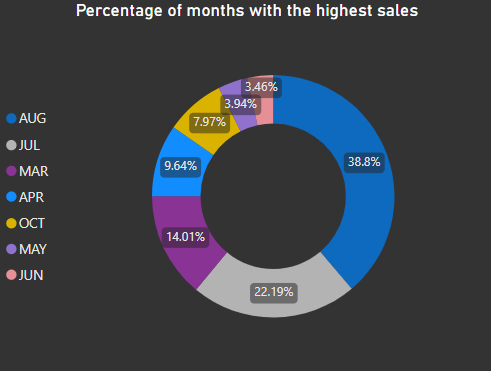
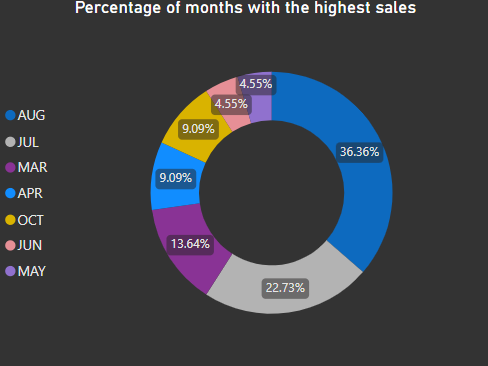
finish commit

diff --git a/README.md b/README.md
@@ -16,19 +16,19 @@ Data sourced from Kaggle (dataset: Vehicle_Sales_Count by Year 2002-2023).
 
 These are the tools were used in this analysis:
 
-- **SQL**
-- **Power BI**
-- **PostgreSQL**
-- **Visual Studio Code**
-- **Git & GitHub**
+- **SQL:** It is the central tool for analysis, where DML (Data Manipulation Language) queries were used to query the database. DDL (Data Definition Language) was also generated to create the database, tables, and constraints.
+- **Power BI:** This tool was used to create visualizations that allowed for deeper and more dynamic analysis, helping to uncover valuable insights about the vehicle market.
+- **PostgreSQL:** This was the chosen database management system for database creation, and its versatility enabled a strong connection with Visual Studio Code.
+- **Visual Studio Code:** This is the most widely used code editor currently, and due to its high customizability, it was selected as the tool for writing queries.
+- **Git & GitHub** These tools were used in the project as version control applications, allowing for both local and remote storage and management of the project.
 
 # Analysis
 
-xxx
+To analyze the new and used vehicle market during the period from 2002 to 2023, we aim to answer certain questions and understand descriptively whether some changes were caused by external factors such as the 2006 economic crisis and the 2020 pandemic. To achieve this, we primarily used SQL to run the relevant queries for each of the posed inquiries, and finally, we will validate whether the external factors mentioned have influenced vehicle sales.
 
 ### 1. Which year had the highest total of new vehicle sales, and what was the total that year?
 
-xxxx q estoy haciendo, y porque
+The question is aimed at identifying the year with the highest new vehicle sales, which, in theory, should be the last year of sales at nominal value, since we are not conducting an analysis based on real value (excluding inflation).
 
 ```sql
 WITH fvs AS (
@@ -46,14 +46,15 @@ WHERE total_new_sales_by_year = (
     )
 ```
 
-xxx que encontre
+As expected, the year with the highest sales was 2023, with $13.756 billion. This will be shown in the following graph, where a progressive increase in new vehicle sales will be evident
 
 ![Top 10 new vehicles sales](assets\Graph_1.png)
+
 _Graph showing the years with the highest new vehicle sales during the period from 2002 to 2023. The year 2023 is shown as the year with the highest sales, with a total of $13,755,763,434, approximately 14 billion_
 
 ### 2. Which month had the highest used vehicle sales in each year?
 
-xxxx q estoy haciendo, y porque
+In this question, we aim to determine which months had the highest sales in each year. The goal is to identify the months with the highest sales and see if these are recurring during certain periods. To achieve this, a correlated subquery is performed, filtering the inner table for each element in the outer table to find the highest sales.
 
 ```sql
 SELECT year,
@@ -67,17 +68,19 @@ WHERE total_sales_used = (
     )
 ```
 
-xxx que encontre
+The following charts, both the table and the donut chart, show that some months consistently have the highest sales in their respective years. Notably, summer months like August and July together account for 59% of all months with the highest sales.
 
 ![Top highest used vehicle sales monthly each year](assets\Graph_2.png)
-_Explicacion de la grafica_
+
+_A table that shows the months with the highest sales for each year. As can be observed, months like August and July appear repeatedly._
 
 ![Percentage of months with the highets sales](assets\Graph_3.png)
-_Explicacion de la grafica_
+
+_The donut chart shows the number of times these months are repeated as a percentage of the total months presented in the previous table. August and July dominate, indicating that for the used vehicle market, these months are crucial._
 
 ### 3. How were the new and used vehicle sales throughout each year?
 
-xxxx q estoy haciendo, y porque
+In this question, I am interested in understanding the evolution of new and used vehicle sales during the studied period. To do so, a query was performed that groups sales by year. A growth trend with some fluctuations in certain periods is expected.
 
 ```sql
 SELECT year,
@@ -88,14 +91,15 @@ GROUP BY year
 ORDER BY year
 ```
 
-xxx que encontre
+Both the query and the chart that presents new and used car sales show an overall upward trend, despite two declines in sales. The first decline occurs between 2006 and 2010, where the drop is more significant in the new vehicle market than in the used one. In the second decline, from 2019 to 2020, the decreases are similar, though greater in the used vehicle market.
 
 ![Evoluation new and used vehicles by year](assets\Graph_4.png)
-_Explicacion de la grafica_
+
+_The chart shows the evolution of sales for both new and used vehicle markets, consistently demonstrating the dominance of the new car market and how these markets fluctuate over the years._
 
 ### 4. Which months had sales higher than their averages over each year?
 
-xxxx q estoy haciendo, y porque
+Although we previously analyzed which months had the highest sales, some months that, while not having the highest sales, are still quite important for the market were left out. For this reason, we now aim to find the months that surpass the average sales of their respective years. This will provide a broader perspective than in question 2, where we only focused on the month with the highest sales.
 
 ```sql
 SELECT year,
@@ -109,15 +113,15 @@ WHERE total_sales_new + total_sales_used > (
     )
 ```
 
-xxx que encontre
+After the correlated subquery, a decomposition tree was created in Power BI, showing the top 6 months with sales above the average of their respective years. Unlike the analysis in question 2, we found a couple of months that weren’t initially on the radar. It can be seen that the summer season has each of its months above the average, and months that weren’t previously considered, such as June, September, May, and March, play a more significant role than initially analyzed.
 
 ![Top 6 months with the highest sales above average by year](assets\Graph_5.png)
 
-_Explicacion de la grafica_
+_The decomposition tree shows the breakdown of months in total new and used vehicle sales, where the summer season clearly plays a leading role._
 
 ### 5. How has the evolution of the vehicle sales market been from 2002 to 2023?
 
-xxxx q estoy haciendo, y porque
+The last of my questions is aimed at studying the evolution of vehicle sales (new and used) during the analyzed period. To do so, a query is made to the database for total sales, grouped by year and ordered by sales. A progressive growth in sales is expected, with some variations.
 
 ```sql
 SELECT year,
@@ -127,23 +131,33 @@ GROUP BY year
 ORDER BY sales DESC
 ```
 
-xxx que encontre
+Both in the SQL query and in the line chart, a growing trend (gray line) in the market is evident. However, as seen in question 3, two periods where the market contracts can be observed, the first between 2007 and 2010, and the second between 2019 and 2020. These market contractions can be interpreted as consequences of the housing crisis and the pandemic, although they are not the only fluctuations, they are the most significant. Despite these declines, the market recovers and continues on a positive path.
 
-![alt text](URL_image)
-_Explicacion de la grafica_
+![Total vehicle sales](assets\Graph_6.png)
+
+_The chart shows the evolution of vehicle sales during the period from 2002 to 2023, with a purple line and a dotted gray trend line._
 
 # What I learned
 
-xxx
+In this project, many valuable lessons were learned, some focused on database manipulation in SQL and PostgreSQL, others on the use of Power BI for both the creation and design of charts, and some with a more economic and analytical focus. These are detailed below:
 
-- **Data**
-- **Analysis**
-- **Economic**
+- **Data:** In terms of data management, PostgreSQL was used to structure and store data, enabling queries through SQL. SQL itself facilitated the learning and deepening of concepts such as DDL (Data Definition Language) for data creation and loading, constraints for database integrity and consistency, and aggregation queries, various functions were practiced, and subqueries played an important role in this project.
+- **Analysis:** For this area, both SQL and Power BI were actively used to perform the descriptive analysis of the database queries. Initially, SQL results provided a context for the topic under study. Secondly, Power BI provided a platform for a more in-depth analysis of the data, thanks to dynamic charts like the decomposition tree and line chart analysis options, with the integration of trend lines and gradient formats.
+- **Economic:** From an economic perspective, evidence was provided regarding the impact the vehicle market, along with many other markets, suffered during the 2007-2010 housing crisis and the 2019-2020 pandemic.
+- **Others:** Tools such as Visual Studio Code and Git & GitHub also contributed significant knowledge. The first offered a connection to both PostgreSQL and GitHub, allowing data manipulation and the presentation of queries. The latter provided an ideal repository environment and helped enhance my understanding of how to manage these tools in both local and remote phases.
 
 # Conclusions
 
-3 conclusions
+The project will present conclusions about the vehicle market below. However, we must keep in mind that these conclusions are not definitive since we have not considered factors that could affect the market, such as fuel prices, disruptions in the Suez Canal due to the war between the USA and the Houthi rebels in Yemen, interest rates, inflation, and others.
+
+- **1.** As initially thought, the 2007-2010 housing crisis and the 2019-2020 pandemic affected vehicle purchases. This can clearly be explained by the loss of consumers' purchasing power.
+- **2.** Vehicle sales have shown a growing trend during the period from 2002 to 2023. Additionally, if we divide the market into new and used cars, we see that the new car market has been consistently larger throughout the entire period compared to the used car market.
+- **3.** The summer season is crucial for car sales. The months of August, June, July, and September are proportionally the most important. In fact, August and July alone account for 59% of the months with the highest sales in each of their respective years.
 
 ## Closing Thoughts
 
-que me dejo este projecto a mi, tanto en skills como en analisys y experiencia
+Personally, the project gave me the opportunity to deepen my knowledge of tools such as SQL, Power BI, PostgreSQL, Git & GitHub, and VS Code. Especially in SQL, which I used extensively for both data management and analysis. Through queries, I was able to perform aggregations, functions, and subqueries. I also learned about the vehicle market and how its sales are affected by expected circumstantial situations such as the housing crisis and the pandemic.
+
+Additionally, it became clear that vehicle sales have seasonality, particularly during the summer season, as the most relevant months for sales are June, July, August, and September.
+
+Lastly, I also learned about README files and how they are structured for presentation on GitHub. Without a doubt, this project greatly contributed to my professional growth.
